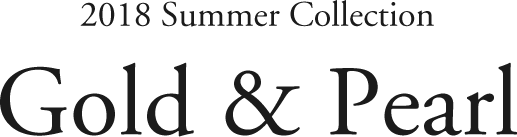
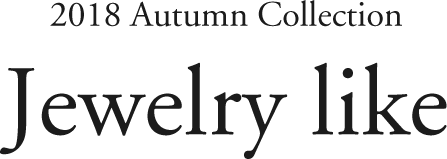
912
9/12 本番用差し替え

Changed region(s): [[0.0, 0.3796, 1.0, 1.0], [0.1163, 0.0, 0.9016, 0.2044]]

diff --git a/src/pages/Collection/2018A/index.vue b/src/pages/Collection/2018A/index.vue
@@ -2,7 +2,7 @@
   <div id="CollectionContent" class="content child detail">
     <div class="inner-wrap enter-view" ref="enterView">
       <div class="tag">COLLECTION</div>
-      <h1 class="ttl-page">2018 Autumn Collection “Oriental”</h1>
+      <h1 class="ttl-page">2018 Autumn Collection “Vintage like”</h1>
       <section v-for="(list, index) in lists" :key="list.img">
         <div class="collection-main-img c-section__image-in js-smooth-item">
           <img :src="list.img" class="js-parallax-item">
@@ -52,21 +52,26 @@ export default {
       lists: [
         {
           hash: '#product0',
-          img: require('@/assets/img/collection/2018a/2018a_01_main.jpg'),
+          img: require('@/assets/img/collection/2018a/01_main.jpg'),
           active: false,
           products: [
             {
-              img: require('@/assets/img/collection/2018s/2018s_02_sample.jpg'),
+              img: require('@/assets/img/collection/2018a/p01/1.jpg'),
               name: 'SampleSample Earrings',
               price: '¥10,000+tax'
             },
             {
-              img: require('@/assets/img/collection/2018s/2018s_02_sample.jpg'),
+              img: require('@/assets/img/collection/2018a/p01/2.jpg'),
               name: 'SampleSample Earrings',
               price: '¥10,000+tax'
             },
             {
-              img: require('@/assets/img/collection/2018s/2018s_02_sample.jpg'),
+              img: require('@/assets/img/collection/2018a/p01/3.jpg'),
+              name: 'SampleSample Earrings',
+              price: '¥10,000+tax'
+            },
+            {
+              img: require('@/assets/img/collection/2018a/p01/4.jpg'),
               name: 'SampleSample Earrings',
               price: '¥10,000+tax'
             }
@@ -74,21 +79,21 @@ export default {
         },
         {
           hash: '#product1',
-          img: require('@/assets/img/collection/2018a/2018a_02_main.jpg'),
+          img: require('@/assets/img/collection/2018a/02_main.jpg'),
           active: false,
           products: [
             {
-              img: require('@/assets/img/collection/2018s/2018s_02_sample.jpg'),
+              img: require('@/assets/img/collection/2018a/p02/1.jpg'),
               name: 'SampleSample Earrings',
               price: '¥10,000+tax'
             },
             {
-              img: require('@/assets/img/collection/2018s/2018s_02_sample.jpg'),
+              img: require('@/assets/img/collection/2018a/p02/2.jpg'),
               name: 'SampleSample Earrings',
               price: '¥10,000+tax'
             },
             {
-              img: require('@/assets/img/collection/2018s/2018s_02_sample.jpg'),
+              img: require('@/assets/img/collection/2018a/p02/3.jpg'),
               name: 'SampleSample Earrings',
               price: '¥10,000+tax'
             }
@@ -96,21 +101,26 @@ export default {
         },
         {
           hash: '#product2',
-          img: require('@/assets/img/collection/2018a/2018a_03_main.jpg'),
+          img: require('@/assets/img/collection/2018a/03_main.jpg'),
           active: false,
           products: [
             {
-              img: require('@/assets/img/collection/2018s/2018s_02_sample.jpg'),
+              img: require('@/assets/img/collection/2018a/p03/1.jpg'),
               name: 'SampleSample Earrings',
               price: '¥10,000+tax'
             },
             {
-              img: require('@/assets/img/collection/2018s/2018s_02_sample.jpg'),
+              img: require('@/assets/img/collection/2018a/p03/2.jpg'),
               name: 'SampleSample Earrings',
               price: '¥10,000+tax'
             },
             {
-              img: require('@/assets/img/collection/2018s/2018s_02_sample.jpg'),
+              img: require('@/assets/img/collection/2018a/p03/3.jpg'),
+              name: 'SampleSample Earrings',
+              price: '¥10,000+tax'
+            },
+            {
+              img: require('@/assets/img/collection/2018a/p03/4.jpg'),
               name: 'SampleSample Earrings',
               price: '¥10,000+tax'
             }
@@ -118,21 +128,21 @@ export default {
         },
         {
           hash: '#product3',
-          img: require('@/assets/img/collection/2018a/2018a_04_main.jpg'),
+          img: require('@/assets/img/collection/2018a/04_main.jpg'),
           active: false,
           products: [
             {
-              img: require('@/assets/img/collection/2018s/2018s_02_sample.jpg'),
+              img: require('@/assets/img/collection/2018a/p04/1.jpg'),
               name: 'SampleSample Earrings',
               price: '¥10,000+tax'
             },
             {
-              img: require('@/assets/img/collection/2018s/2018s_02_sample.jpg'),
+              img: require('@/assets/img/collection/2018a/p04/2.jpg'),
               name: 'SampleSample Earrings',
               price: '¥10,000+tax'
             },
             {
-              img: require('@/assets/img/collection/2018s/2018s_02_sample.jpg'),
+              img: require('@/assets/img/collection/2018a/p04/3.jpg'),
               name: 'SampleSample Earrings',
               price: '¥10,000+tax'
             }
@@ -140,21 +150,21 @@ export default {
         },
         {
           hash: '#product4',
-          img: require('@/assets/img/collection/2018a/2018a_05_main.jpg'),
+          img: require('@/assets/img/collection/2018a/05_main.jpg'),
           active: false,
           products: [
             {
-              img: require('@/assets/img/collection/2018s/2018s_02_sample.jpg'),
+              img: require('@/assets/img/collection/2018a/p05/1.jpg'),
               name: 'SampleSample Earrings',
               price: '¥10,000+tax'
             },
             {
-              img: require('@/assets/img/collection/2018s/2018s_02_sample.jpg'),
+              img: require('@/assets/img/collection/2018a/p05/2.jpg'),
               name: 'SampleSample Earrings',
               price: '¥10,000+tax'
             },
             {
-              img: require('@/assets/img/collection/2018s/2018s_02_sample.jpg'),
+              img: require('@/assets/img/collection/2018a/p05/3.jpg'),
               name: 'SampleSample Earrings',
               price: '¥10,000+tax'
             }
@@ -162,21 +172,21 @@ export default {
         },
         {
           hash: '#product5',
-          img: require('@/assets/img/collection/2018a/2018a_06_main.jpg'),
+          img: require('@/assets/img/collection/2018a/06_main.jpg'),
           active: false,
           products: [
             {
-              img: require('@/assets/img/collection/2018s/2018s_02_sample.jpg'),
+              img: require('@/assets/img/collection/2018a/p06/1.jpg'),
               name: 'SampleSample Earrings',
               price: '¥10,000+tax'
             },
             {
-              img: require('@/assets/img/collection/2018s/2018s_02_sample.jpg'),
+              img: require('@/assets/img/collection/2018a/p06/2.jpg'),
               name: 'SampleSample Earrings',
               price: '¥10,000+tax'
             },
             {
-              img: require('@/assets/img/collection/2018s/2018s_02_sample.jpg'),
+              img: require('@/assets/img/collection/2018a/p06/3.jpg'),
               name: 'SampleSample Earrings',
               price: '¥10,000+tax'
             }

diff --git a/src/pages/Collection/2018S/index.vue b/src/pages/Collection/2018S/index.vue
@@ -2,7 +2,7 @@
   <div id="CollectionContent" class="content child">
     <div class="inner-wrap enter-view" ref="enterView">
       <div class="tag">COLLECTION</div>
-      <h1 class="ttl-page">2018 Summer Collection “Gold&Pearl”</h1>
+      <h1 class="ttl-page">2018 Summer Collection “Jewelry like”</h1>
       <section>
         <div class="collection-main-img">
           <img src="@/assets/img/collection/2018s/2018s_01_main.jpg">
@@ -10,63 +10,91 @@
         <ul class="product-list">
           <li>
             <a href="" target="_blank">
-              <div class="product-img hover-img"><img src="@/assets/img/collection/2018s/2018s_02_sample.jpg"></div>
+              <div class="product-img hover-img"><img src="@/assets/img/collection/2018s/1.jpg"></div>
             </a>
             <div class="product-name">SampleSample Earrings</div>
               <div class="product-price">¥10,000+tax</div>
           </li>
           <li>
             <a href="" target="_blank">
-              <div class="product-img hover-img"><img src="@/assets/img/collection/2018s/2018s_02_sample.jpg"></div>
+              <div class="product-img hover-img"><img src="@/assets/img/collection/2018s/2.jpg"></div>
             </a>
             <div class="product-name">SampleSample Earrings</div>
               <div class="product-price">¥10,000+tax</div>
           </li>
           <li>
             <a href="" target="_blank">
-              <div class="product-img hover-img"><img src="@/assets/img/collection/2018s/2018s_02_sample.jpg"></div>
+              <div class="product-img hover-img"><img src="@/assets/img/collection/2018s/3.jpg"></div>
             </a>
             <div class="product-name">SampleSample Earrings</div>
               <div class="product-price">¥10,000+tax</div>
           </li>
           <li>
             <a href="" target="_blank">
-              <div class="product-img hover-img"><img src="@/assets/img/collection/2018s/2018s_02_sample.jpg"></div>
+              <div class="product-img hover-img"><img src="@/assets/img/collection/2018s/4.jpg"></div>
             </a>
             <div class="product-name">SampleSample Earrings</div>
               <div class="product-price">¥10,000+tax</div>
           </li>
           <li>
             <a href="" target="_blank">
-              <div class="product-img hover-img"><img src="@/assets/img/collection/2018s/2018s_02_sample.jpg"></div>
+              <div class="product-img hover-img"><img src="@/assets/img/collection/2018s/5.jpg"></div>
             </a>
             <div class="product-name">SampleSample Earrings</div>
               <div class="product-price">¥10,000+tax</div>
           </li>
           <li>
             <a href="" target="_blank">
-              <div class="product-img hover-img"><img src="@/assets/img/collection/2018s/2018s_02_sample.jpg"></div>
+              <div class="product-img hover-img"><img src="@/assets/img/collection/2018s/6.jpg"></div>
             </a>
             <div class="product-name">SampleSample Earrings</div>
               <div class="product-price">¥10,000+tax</div>
           </li>
           <li>
             <a href="" target="_blank">
-              <div class="product-img hover-img"><img src="@/assets/img/collection/2018s/2018s_02_sample.jpg"></div>
+              <div class="product-img hover-img"><img src="@/assets/img/collection/2018s/7.jpg"></div>
             </a>
             <div class="product-name">SampleSample Earrings</div>
               <div class="product-price">¥10,000+tax</div>
           </li>
           <li>
             <a href="" target="_blank">
-              <div class="product-img hover-img"><img src="@/assets/img/collection/2018s/2018s_02_sample.jpg"></div>
+              <div class="product-img hover-img"><img src="@/assets/img/collection/2018s/8.jpg"></div>
             </a>
             <div class="product-name">SampleSample Earrings</div>
             <div class="product-price">¥10,000+tax</div>
           </li>
           <li>
             <a href="" target="_blank">
-              <div class="product-img hover-img"><img src="@/assets/img/collection/2018s/2018s_02_sample.jpg"></div>
+              <div class="product-img hover-img"><img src="@/assets/img/collection/2018s/9.jpg"></div>
+            </a>
+            <div class="product-name">SampleSample Earrings</div>
+            <div class="product-price">¥10,000+tax</div>
+          </li>
+          <li>
+            <a href="" target="_blank">
+              <div class="product-img hover-img"><img src="@/assets/img/collection/2018s/10.jpg"></div>
+            </a>
+            <div class="product-name">SampleSample Earrings</div>
+            <div class="product-price">¥10,000+tax</div>
+          </li>
+          <li>
+            <a href="" target="_blank">
+              <div class="product-img hover-img"><img src="@/assets/img/collection/2018s/11.jpg"></div>
+            </a>
+            <div class="product-name">SampleSample Earrings</div>
+            <div class="product-price">¥10,000+tax</div>
+          </li>
+          <li>
+            <a href="" target="_blank">
+              <div class="product-img hover-img"><img src="@/assets/img/collection/2018s/12.jpg"></div>
+            </a>
+            <div class="product-name">SampleSample Earrings</div>
+            <div class="product-price">¥10,000+tax</div>
+          </li>
+          <li>
+            <a href="" target="_blank">
+              <div class="product-img hover-img"><img src="@/assets/img/collection/2018s/13.jpg"></div>
             </a>
             <div class="product-name">SampleSample Earrings</div>
             <div class="product-price">¥10,000+tax</div>

diff --git a/src/pages/About/index.vue b/src/pages/About/index.vue
@@ -12,9 +12,16 @@
           robe minimal and edgy styles.
         </h2>
         <p class="txt-read">
-          大人カジュアルスタイルに合う洗練されたモノを生み出していきたいと思い、フランス語の“ソフィスティケ”に“女性らしさ”を組み合わせて Sophishe〈ソフィシー〉と名付けました。<br>
-          シンプルでベーシックな形に、女性らしさやほんの少しのトレンドや個性をプラスしたデザインをコンセプトに。<br>
-          日常の fashion style に加える事で、一段と素敵に魅せるモノをご提案出来たらと思っております。
+          フランス語の“sophistiqué”洗練された<br>英語の“she”女性らしさを組み合わせ<br><br>
+          洗練された女性へという意味を込めて<br class="sp">Sophishe〈ソフィシー〉と名付けました。<br><br>
+          「日常のファッションに合わせるだけでミニマルでエッジィな雰囲気を纏えるもの」<br>
+          「個性的なニュアンスを取り入れつつも洗練された大人カジュアルスタイルをつくれるもの」<br><br>
+          このようなコンセプトを大切に<br>
+          国内外から取り寄せた数少ないvintage parts、<br class="sp">高品質な天然素材 / 樹脂 /<br class="pc">
+          加工金属 etc.. 多様な素材をMIX。<br><br>
+          長くご愛用頂けるように製作後ナノコーティングをしております。<br>
+          また、接続パーツの細部まで素敵と感じて頂けるよう、<br class="pc">数ミリ単位での調整や製作 / 販売 を心がけています。<br><br>
+          大人スタイリングのアクセントへ、<br class="sp">今までにないカタチを提案します。
         </p>
       </div>
     </div>
@@ -38,4 +45,12 @@ export default {
 
 <style lang="scss">
   @import 'style.scss';
+  @media print, screen and (min-width: 768px) {
+    br.sp { display: none; }
+    br.pc { display: inline; }
+  }
+  @media screen and (max-width: 767px) {
+    br.sp { display: inline; }
+    br.pc { display: none; }
+  }
 </style>

diff --git a/src/pages/Collection/index.vue b/src/pages/Collection/index.vue
@@ -7,13 +7,13 @@
           <router-link tag="div" class="collection-link c-section__image-in js-smooth-item" to="/collection/2018A">
             <a class="hover-img"><img src="@/assets/img/collection/collection_2018a.jpg" class="js-parallax-item" alt=""></a>
           </router-link>
-          <h2 class="collection-title">2018 Autumn Collection “Oriental”</h2>
+          <h2 class="collection-title">2018 Autumn Collection “Vintage like”</h2>
         </article>
         <article>
           <router-link tag="div" class="collection-link c-section__image-in js-smooth-item" to="/collection/2018S">
             <a class="hover-img"><img src="@/assets/img/collection/collection_2018s.jpg" class="js-parallax-item" alt=""></a>
           </router-link>
-          <h2 class="collection-title">2018 Summer Collection “Gold&Pearl”</h2>
+          <h2 class="collection-title">2018 Summer Collection “Jewelry like”</h2>
         </article>
       </section>
     </div>

diff --git a/src/pages/About/style.scss b/src/pages/About/style.scss
@@ -7,6 +7,9 @@
     line-height: 1.4;
     margin: 45px auto;
   }
+  .txt-read{
+    letter-spacing: .1em;
+  }
 }
 @media screen and (min-width: 769px){
   #AboutContent {
@@ -16,9 +19,13 @@
     }
     .about-title{
       font-size: 3.6em;
-      width: 640px;
+      width: 760px;
       margin: 50px auto;
       padding: 0 10px;
+    }
+    .txt-read{
+      width: 760px;
+      letter-spacing: .1em;
     }
   }
 }

diff --git a/src/pages/Top/style.scss b/src/pages/Top/style.scss
@@ -18,12 +18,12 @@
     }
     &.section-2018a {
       .text-link {
-        width: calc(352px / 2);
+        width: calc(464px / 2);
       }
     }
     &.section-2018s {
       .text-link {
-        width: calc(517px / 2);
+        width: calc(447px / 2);
       }
     }
     .text-link {
